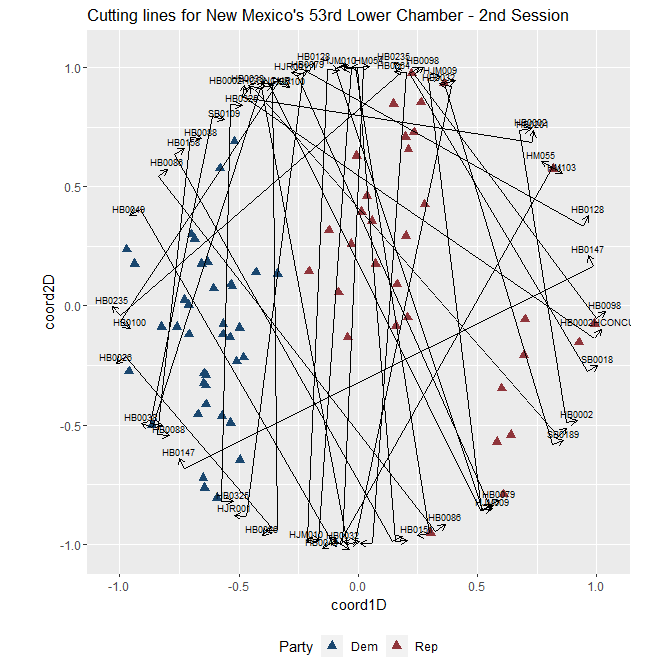
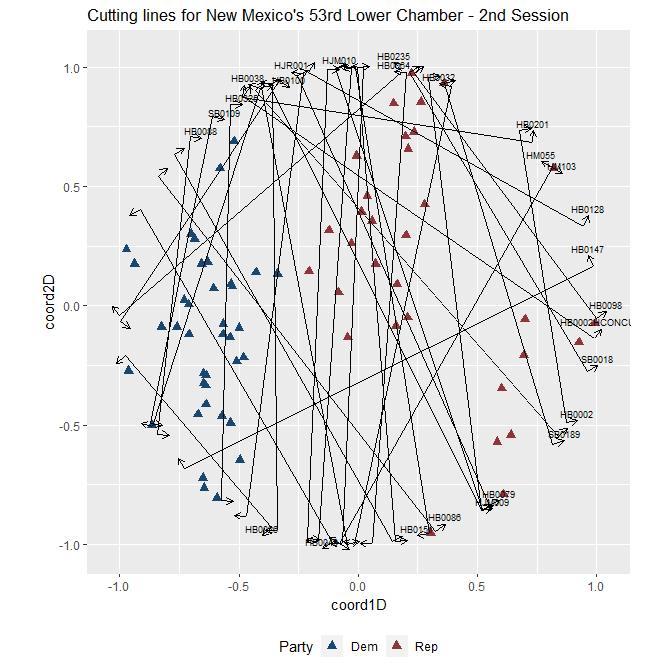
re

diff --git a/README.md b/README.md
@@ -74,7 +74,7 @@ resultd2 <- wnominate::wnominate (datRC,
 ## 
 ## 
 ## W-NOMINATE estimation completed successfully.
-## W-NOMINATE took 2.35 seconds to execute.
+## W-NOMINATE took 2.65 seconds to execute.
 ```
 
 ``` r
@@ -164,11 +164,6 @@ ggplot () +
                arrow = arrow(length = unit(0.2,"cm")))+
   geom_text(data=with_cuts, 
                aes(x = x_1a, y = y_1a, label = Bill_ID), 
-               size=2.5, 
-               nudge_y = 0.03,
-               check_overlap = TRUE) +
-  geom_text(data=with_cuts, 
-               aes(x = x_2a, y = y_2a, label = Bill_ID), 
                size=2.5, 
                nudge_y = 0.03,
                check_overlap = TRUE) +
